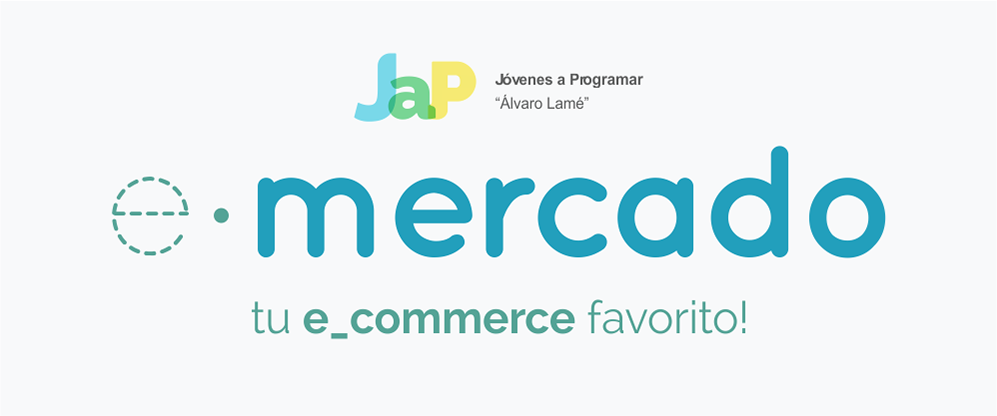
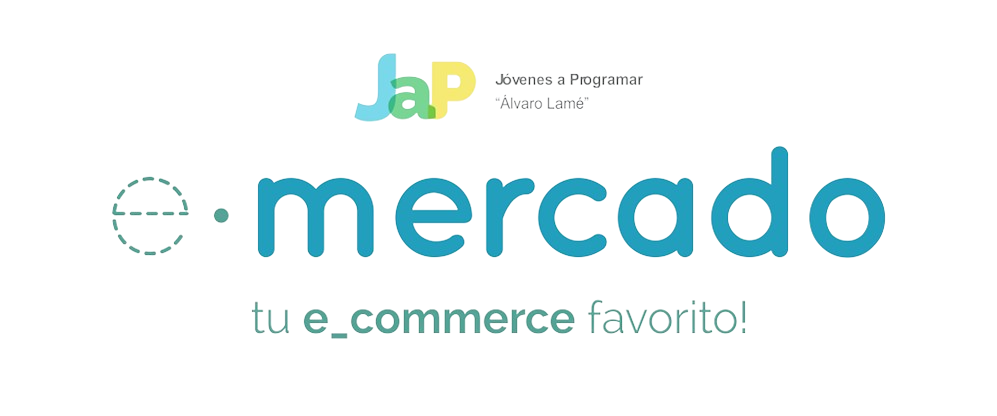
Mover cambio de tema a nuevos archivos JavaScript

diff --git a/js/init.js b/js/init.js
@@ -8,17 +8,16 @@ const CART_BUY_URL = "https://japceibal.github.io/emercado-api/cart/buy.json";
 const EXT_TYPE = ".json";
 let navBarUl = document.getElementById("navBarUl");
 let userEmail = "";
-let darkMode = false;
 
-let showSpinner = function(){
+let showSpinner = function() {
   document.getElementById("spinner-wrapper").style.display = "block";
 }
 
-let hideSpinner = function(){
+let hideSpinner = function() {
   document.getElementById("spinner-wrapper").style.display = "none";
 }
 
-let getJSONData = function(url){
+let getJSONData = function(url) {
     let result = {};
     showSpinner();
     return fetch(url)
@@ -43,6 +42,10 @@ let getJSONData = function(url){
     });
 }
 
+function logout() {
+  sessionStorage.removeItem("userEmail");
+}
+
 //Muestra el correo electrónico del login en la barra de navegación
 document.addEventListener("DOMContentLoaded", function() {
   if (sessionStorage.getItem("userEmail")) {
@@ -64,54 +67,4 @@ document.addEventListener("DOMContentLoaded", function() {
     <li class="nav-item"><a class="nav-link" href="index.html">Iniciar sesión</a></li>
     `
   }
-  document.getElementById("themeImg").addEventListener("click", () => {
-    console.log("hola");
-    darkMode = !darkMode;
-    toggleTheme();
-  })
-  toggleTheme();
 })
-
-function logout() {
-    sessionStorage.removeItem("userEmail");
-}
-
-function toggleTheme() {
-  if (darkMode) {
-    document.getElementById("themeImg").src = "img/bx-sun.svg";
-    document.body.classList.add("darkMode");
-    document.querySelector("nav").classList.remove("navbar-light");
-    document.querySelector("nav").classList.add("navbar-dark");
-    
-    document.querySelectorAll(".bg-light").forEach(element => {
-      element.classList.remove("bg-light");
-      element.classList.add("bg-dark");
-    });
-
-    document.querySelectorAll(".card").forEach(element => {
-      element.classList.add("bg-dark");
-    });
-
-    document.querySelector("nav").classList.add("bg-dark");
-    document.querySelectorAll(".btn-light").forEach(element => {
-      element.classList.remove("btn-light");
-      element.classList.add("btn-dark");
-    });
-  }
-  else {
-    document.getElementById("themeImg").src = "img/bx-moon.svg";
-    document.body.classList.remove("darkMode");
-    document.querySelector("nav").classList.remove("navbar-dark");
-    document.querySelector("nav").classList.add("navbar-light");
-
-    document.querySelectorAll(".bg-dark").forEach(element => {
-      element.classList.remove("bg-dark");
-      element.classList.add("bg-light");
-    });
-
-    document.querySelectorAll(".btn-dark").forEach(element => {
-      element.classList.remove("btn-dark");
-      element.classList.add("btn-light");
-    });
-  }
-}

diff --git a/js/dark-mode.js b/js/dark-mode.js
@@ -1,0 +1,61 @@
+let isDarkModeEnabled = false;
+
+if (!localStorage.getItem("isDarkModeEnabled")) {
+    localStorage.setItem("isDarkModeEnabled", false);
+  }
+else { isDarkModeEnabled = JSON.parse(localStorage.getItem("isDarkModeEnabled")); }
+
+//Intercambia modo oscuro y modo claro
+document.addEventListener("DOMContentLoaded", () => {
+    document.getElementById("themeImg").addEventListener("click", () => {
+        isDarkModeEnabled = !isDarkModeEnabled;
+        localStorage.setItem("isDarkModeEnabled", isDarkModeEnabled);
+        console.log(isDarkModeEnabled);
+        setTheme();
+    })
+    setTheme();
+})
+
+function setTheme() {
+    if (isDarkModeEnabled) {
+        if (document.querySelector(".jumbotron")) {
+            document.querySelector(".jumbotron").style.backgroundImage="url(img/cover_back-dark.png)";
+        }
+        document.getElementById("themeImg").src = "img/bx-sun.svg";
+        document.body.classList.add("darkMode");
+        document.querySelector("nav").classList.remove("navbar-light");
+        document.querySelector("nav").classList.add("navbar-dark");
+
+        document.querySelectorAll(".bg-light").forEach(element => {
+            element.classList.remove("bg-light");
+            element.classList.add("bg-dark");
+        });
+
+        document.querySelectorAll(".card").forEach(element => {
+            element.classList.add("bg-dark");
+        });
+
+        document.querySelector("nav").classList.add("bg-dark");
+        document.querySelectorAll(".btn-light").forEach(element => {
+            element.classList.remove("btn-light");
+            element.classList.add("btn-dark");
+        });
+    }
+    else {
+        document.querySelector(".jumbotron").style.backgroundImage="url(img/cover_back.png)"
+        document.getElementById("themeImg").src = "img/bx-moon.svg";
+        document.body.classList.remove("darkMode");
+        document.querySelector("nav").classList.remove("navbar-dark");
+        document.querySelector("nav").classList.add("navbar-light");
+
+        document.querySelectorAll(".bg-dark").forEach(element => {
+            element.classList.remove("bg-dark");
+            element.classList.add("bg-light");
+        });
+
+        document.querySelectorAll(".btn-dark").forEach(element => {
+            element.classList.remove("btn-dark");
+            element.classList.add("btn-light");
+        });
+    }
+}

diff --git a/css/dark_mode.scss b/css/dark_mode.scss
@@ -1,33 +1,69 @@
-$background-color: rgb(19, 21, 22);
+$body-background-color: rgb(24, 26, 27);
+$font-color: rgb(209, 205, 199);
 
 .darkMode {
-    background-color: rgb(19, 21, 22);
-    color: rgb(200, 195, 188);
-    
+    background-color: $body-background-color;
+    color: $font-color;
+
     #showUserEmail {
-        color: white;
+        color: $font-color;
     }
 
     .navbar-dark {
-        background-color: $background-color;
+        background-color: $body-background-color;
     }
 
-
-    .form-control {
-        color: rgb(209, 205, 199);
-        background-color: rgb(24, 26, 27);
+    .form-control,
+    input.formElement {
+        color: $font-color;
+        background-color: rgb(32, 32, 32);
         border-color: rgb(60, 65, 68);
     }
-    
+
+    input.formElement {
+        color: $font-color;
+        background-color: rgb(59, 59, 59);
+    }
+
+    input.formElement:focus {
+        outline-style: solid;
+        outline-width: thin;
+        outline-color: rgb(119 82 140);
+    }
+
+    .form-control::placeholder {
+        color: $font-color;
+    }
+
     .list-group-item {
-        color: rgb(209, 205, 199);
+        color: $font-color;
         text-decoration-color: initial;
-        background-color: $background-color;
+        background-color: $body-background-color;
         border-color: rgba(140, 130, 115, 0.13);
     }
 
     .img-thumbnail {
-        background-color: rgb(24, 26, 27);
+        background-color: $body-background-color;
         border-color: rgb(56, 61, 63);
+    }
+
+    #productCategory,
+    #productCurrency,
+    #file-upload {
+        background-color: $body-background-color;
+        color: $font-color;
+    }
+
+    .nsm7Bb-HzV7m-LgbsSe {
+        background-color: rgb(24, 26, 27);
+        background-image: none;
+        border-color: rgb(58, 62, 65);
+        color: rgb(192, 186, 178);
+        outline-color: initial;
+    }
+
+    input:-webkit-autofill,
+    input:-webkit-autofill:focus {
+        transition: background-color 600000s 0s, color 600000s 0s;
     }
 }

diff --git a/css/dark_mode.css b/css/dark_mode.css
@@ -1,26 +1,63 @@
 .darkMode {
-  background-color: rgb(19, 21, 22);
-  color: rgb(200, 195, 188);
+  background-color: rgb(24, 26, 27);
+  color: rgb(209, 205, 199);
 }
 .darkMode #showUserEmail {
-  color: white;
+  color: rgb(209, 205, 199);
 }
 .darkMode .navbar-dark {
-  background-color: rgb(19, 21, 22);
-}
-.darkMode .form-control {
-  color: rgb(209, 205, 199);
   background-color: rgb(24, 26, 27);
+}
+.darkMode .form-control,
+.darkMode input.formElement {
+  color: rgb(209, 205, 199);
+  background-color: rgb(32, 32, 32);
   border-color: rgb(60, 65, 68);
+}
+.darkMode input.formElement {
+  color: rgb(209, 205, 199);
+  background-color: rgb(59, 59, 59);
+}
+.darkMode input.formElement:focus {
+  outline-style: solid;
+  outline-width: thin;
+  outline-color: rgb(119, 82, 140);
+}
+.darkMode .form-control::-moz-placeholder {
+  color: rgb(209, 205, 199);
+}
+.darkMode .form-control:-ms-input-placeholder {
+  color: rgb(209, 205, 199);
+}
+.darkMode .form-control::placeholder {
+  color: rgb(209, 205, 199);
 }
 .darkMode .list-group-item {
   color: rgb(209, 205, 199);
   -webkit-text-decoration-color: initial;
           text-decoration-color: initial;
-  background-color: rgb(19, 21, 22);
+  background-color: rgb(24, 26, 27);
   border-color: rgba(140, 130, 115, 0.13);
 }
 .darkMode .img-thumbnail {
   background-color: rgb(24, 26, 27);
   border-color: rgb(56, 61, 63);
+}
+.darkMode #productCategory,
+.darkMode #productCurrency,
+.darkMode #file-upload {
+  background-color: rgb(24, 26, 27);
+  color: rgb(209, 205, 199);
+}
+.darkMode .nsm7Bb-HzV7m-LgbsSe {
+  background-color: rgb(24, 26, 27);
+  background-image: none;
+  border-color: rgb(58, 62, 65);
+  color: rgb(192, 186, 178);
+  outline-color: initial;
+}
+.darkMode input:-webkit-autofill,
+.darkMode input:-webkit-autofill:focus {
+  -webkit-transition: background-color 600000s 0s, color 600000s 0s;
+  transition: background-color 600000s 0s, color 600000s 0s;
 }/*# sourceMappingURL=dark_mode.css.map */

diff --git a/index.html b/index.html
@@ -18,10 +18,10 @@
   </style>
 </head>
 
-<body>
+<body id="loginPage">
   <header>
     <div class="coverLogoContainer">
-      <img src="img/login.png" alt="e-mercado, tu e-commerce favorito" class="coverLogo">
+      <img src="img/login-removebg-preview.png" alt="e-mercado, tu e-commerce favorito" class="coverLogo">
     </div>
   </header>
   <main class="mt-5">
@@ -37,7 +37,7 @@
            data-client_id="938035182232-34t84lece3cvrnes33khbvfsm255msiv.apps.googleusercontent.com"
            data-callback="irAPortada">
       </div>
-      <div class="g_id_signin" data-type="standard"></div>
+      <div class="g_id_signin" data-type="standard" data-shape="pill"></div>
 
       <label for="email" class="formElement">Correo electrónico</label>
       <input type="email" name="email" id="email" placeholder="usuario@correo.com" class="formElement" required>
@@ -62,8 +62,9 @@
       <p>Clickea <a target="_blank" href="Letra.pdf">aquí</a> para descargar la letra del obligatorio.</p>
     </div>
   </footer>
-  <script src="js/jwt-decode.js"></script>
   <script src="js/login.js"></script>
+  <script src="js/jwt-decode.js"></script>
+  <script src="js/login-dark-mode.js"></script>
 </body>
 
 </html>

diff --git a/js/login-dark-mode.js b/js/login-dark-mode.js
@@ -1,0 +1,16 @@
+let isDarkModeEnabled = false;
+
+if (!localStorage.getItem("isDarkModeEnabled")) {
+    localStorage.setItem("isDarkModeEnabled", false);
+  }
+else { isDarkModeEnabled = JSON.parse(localStorage.getItem("isDarkModeEnabled")); }
+
+document.addEventListener("DOMContentLoaded", () => {   
+     setTheme();
+})
+
+function setTheme() {
+    if (isDarkModeEnabled) {
+        document.body.classList.add("darkMode");
+    }
+}

diff --git a/categories.html b/categories.html
@@ -102,6 +102,7 @@
   <script src="js/bootstrap.bundle.min.js"></script>
   <script src="js/init.js"></script>
   <script src="js/categories.js"></script>
+  <script src="js/dark-mode.js"></script>
 </body>
 
 </html>

diff --git a/portada.html b/portada.html
@@ -90,6 +90,7 @@
   <script src="js/bootstrap.bundle.min.js"></script>
   <script src="js/index.js"></script>
   <script src="js/init.js"></script>
+  <script src="js/dark-mode.js"></script>
 </body>
 
 </html>
